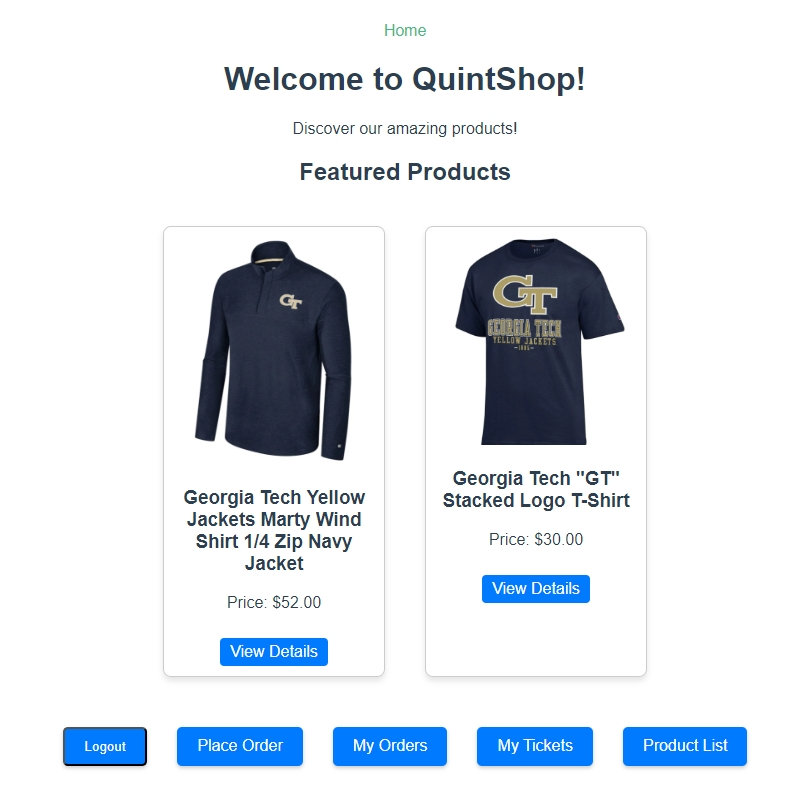
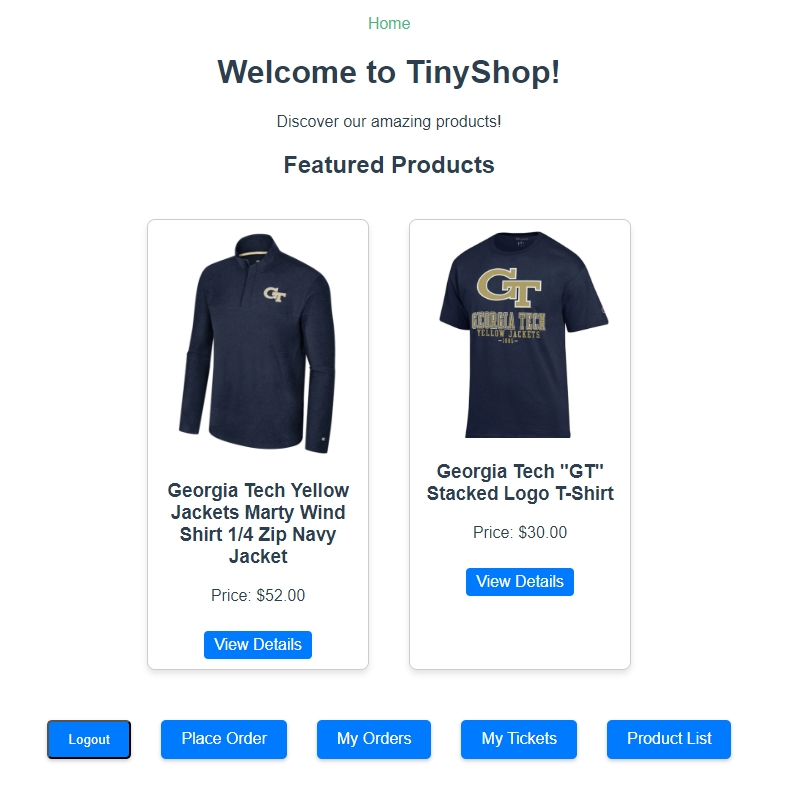
change name to tinyshop

diff --git a/src/components/HomePage.vue b/src/components/HomePage.vue
@@ -1,6 +1,6 @@
 <template>
   <div class="home">
-    <h1>Welcome to QuintShop!</h1>
+    <h1>Welcome to TinyShop!</h1>
     <p>Discover our amazing products!</p>
 
     <div class="featured-products">
